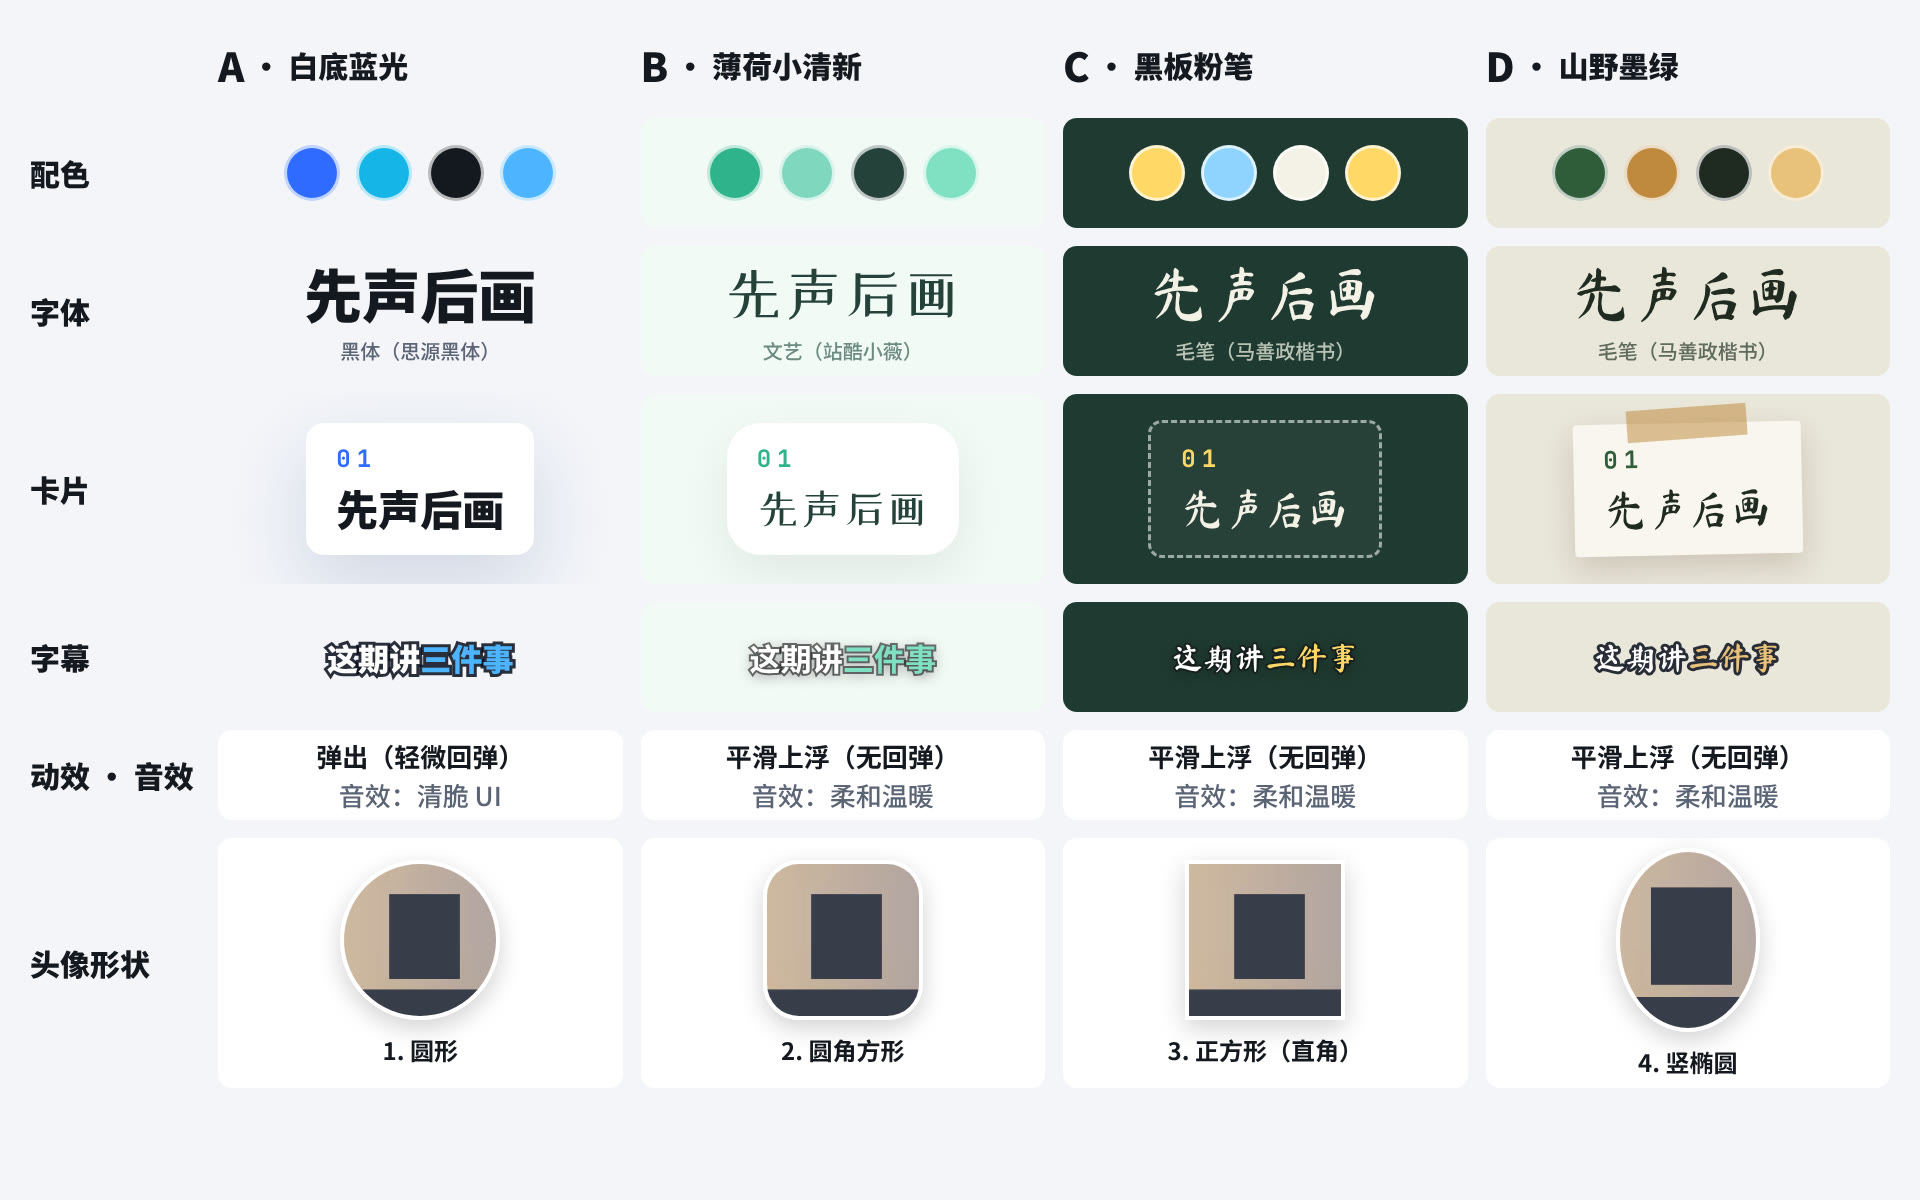
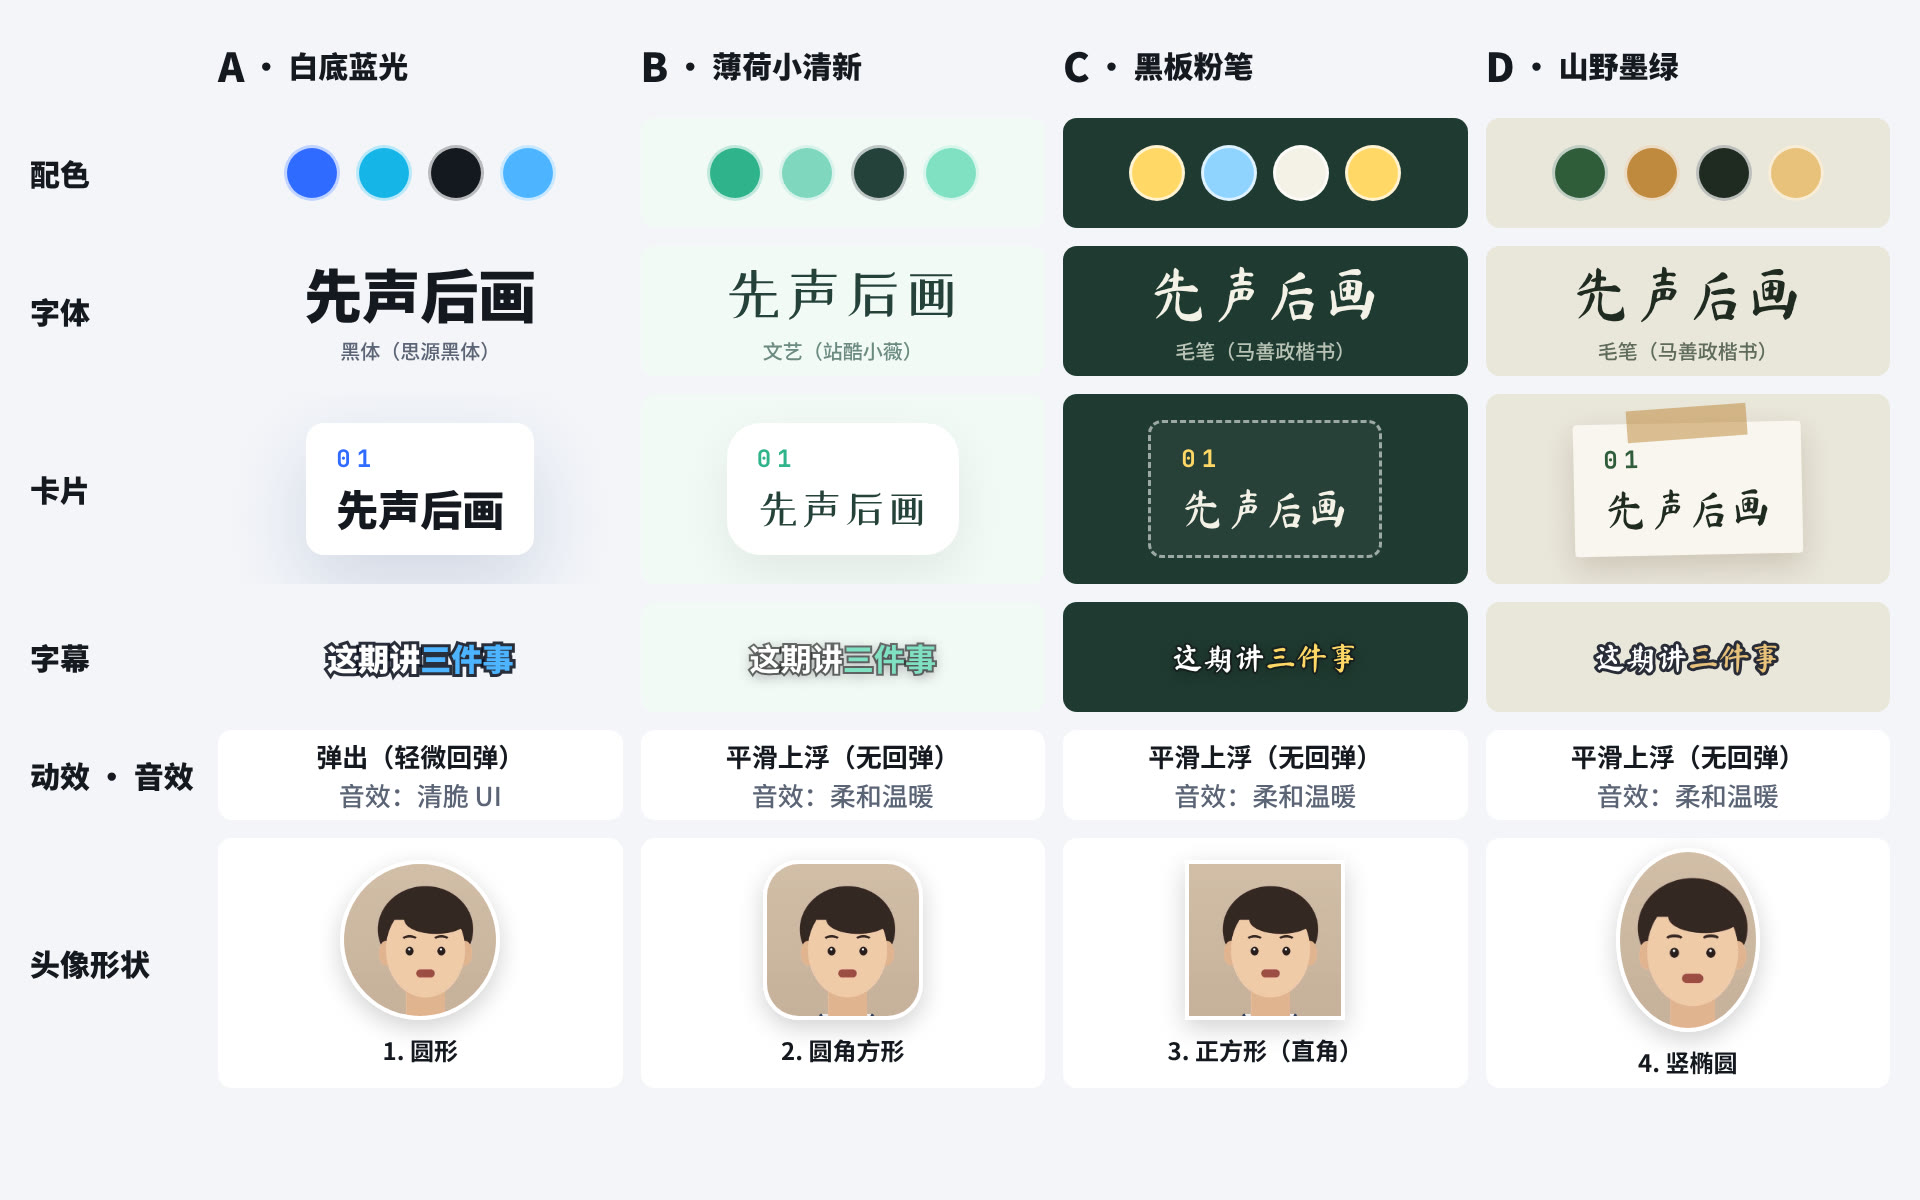
占位人物换成会说话的卡通人形，重出样板图

diff --git a/skills/talking-head-motion/template/tools/make-placeholder.py b/skills/talking-head-motion/template/tools/make-placeholder.py
@@ -1,0 +1,135 @@
+# 占位口播：还没有真人素材时，生成一段「人形卡通人物在说话」的视频，用来出风格样板、试排版。
+# 用法：python tools/make-placeholder.py public/talk.mp4 [--seconds 25.5] [--portrait]
+# 需要 Pillow 和 ffmpeg。人物会眨眼、张嘴、轻微点头，隔一会儿抬手做个手势。
+import argparse
+import math
+import subprocess
+
+from PIL import Image, ImageDraw, ImageFilter
+
+ap = argparse.ArgumentParser()
+ap.add_argument('out')
+ap.add_argument('--seconds', type=float, default=25.5)
+ap.add_argument('--portrait', action='store_true', help='竖着拍的口播（1080×1920）')
+a = ap.parse_args()
+
+W, H = (1080, 1920) if a.portrait else (1920, 1080)
+FPS = 30
+N = round(a.seconds * FPS)
+
+SKIN, SKIN_D = (238, 203, 172), (222, 180, 148)
+HAIR = (52, 40, 36)
+SHIRT, SHIRT_D = (58, 78, 110), (44, 60, 88)
+INNER = (236, 238, 242)
+INK = (40, 32, 30)
+MOUTH = (150, 70, 70)
+
+
+def room():
+    """暖色房间：墙面渐变 + 虚化的书架、台灯和绿植"""
+    bg = Image.new('RGB', (W, H))
+    d = ImageDraw.Draw(bg)
+    for y in range(H):
+        k = y / H
+        d.line([(0, y), (W, y)], fill=(int(214 - 30 * k), int(196 - 32 * k), int(176 - 34 * k)))
+    s = W / 1920 if not a.portrait else 1.0
+    # 书架
+    x0 = int(110 * s)
+    d.rectangle([x0, int(H * 0.18), x0 + int(380 * s), int(H * 0.86)], fill=(150, 116, 88))
+    for i in range(4):
+        y = int(H * (0.25 + 0.15 * i))
+        d.rectangle([x0 + 16, y, x0 + int(380 * s) - 16, y + 12], fill=(118, 88, 64))
+        for j in range(7):
+            bx = x0 + 30 + j * int(46 * s)
+            d.rectangle([bx, y - int(90 * s) + (j % 3) * 14, bx + int(34 * s), y], fill=[(92, 120, 150), (190, 120, 90), (220, 200, 160), (110, 140, 110)][(i + j) % 4])
+    # 台灯光
+    lx, ly = W - int(260 * s), int(H * 0.32)
+    d.ellipse([lx - 260, ly - 260, lx + 260, ly + 260], fill=(250, 226, 180))
+    d.rectangle([lx - 8, ly, lx + 8, int(H * 0.8)], fill=(90, 80, 70))
+    # 绿植
+    px, py = W - int(150 * s), int(H * 0.72)
+    for k in range(9):
+        ang = -2.6 + k * 0.33
+        d.ellipse([px + math.cos(ang) * 120 - 50, py + math.sin(ang) * 140 - 28, px + math.cos(ang) * 120 + 50, py + math.sin(ang) * 140 + 28], fill=(84, 128, 92))
+    d.rectangle([px - 70, py, px + 70, py + int(H * 0.18)], fill=(170, 120, 96))
+    return bg.filter(ImageFilter.GaussianBlur(22))
+
+
+SS = 2  # 超采样，边缘更平滑
+# 人物放在画面中间，脸大约在高度 36% 的位置
+scale = 1.0 if not a.portrait else 1.4
+BOX_W = 900  # 人物画布（1 倍尺寸）
+oy = 0 if not a.portrait else int(H * 0.36 - 400 * scale)
+BOX_H = 1080 if not a.portrait else math.ceil((H - oy) / scale) + 4
+ox = int(W / 2 - BOX_W * scale / 2)
+
+
+def person(t):
+    """画一帧人物（RGBA，BOX_W×BOX_H），中心线在 BOX_W/2"""
+    im = Image.new('RGBA', (BOX_W * SS, BOX_H * SS), (0, 0, 0, 0))
+    d = ImageDraw.Draw(im)
+    S = lambda *v: [x * SS for x in v]
+    cx = BOX_W / 2
+    bob = 5 * math.sin(t * 2.2) + 2 * math.sin(t * 5.1)
+    sway = 6 * math.sin(t * 0.9)
+    hx, hy = cx + sway, 400 + bob  # 脸中心
+
+    # 身体：圆肩 + 上衣
+    d.rounded_rectangle(S(cx - 290, 600, cx + 290, BOX_H + 200), radius=150 * SS, fill=SHIRT)
+    d.polygon(S(cx - 75, 590, cx + 75, 590, cx, 720), fill=INNER)  # 领口
+    d.line(S(cx - 75, 590, cx, 720, cx + 75, 590), fill=SHIRT_D, width=8 * SS)
+    d.line(S(cx - 200, 760, cx - 210, BOX_H), fill=SHIRT_D, width=6 * SS)  # 手臂分界
+    d.line(S(cx + 200, 760, cx + 210, BOX_H), fill=SHIRT_D, width=6 * SS)
+    # 脖子
+    d.rounded_rectangle(S(hx - 55, hy + 90, hx + 55, 620), radius=30 * SS, fill=SKIN_D)
+    # 头发（后）
+    d.ellipse(S(hx - 135, hy - 175, hx + 135, hy + 70), fill=HAIR)
+    # 耳朵、脸
+    d.ellipse(S(hx - 132, hy - 20, hx - 92, hy + 50), fill=SKIN_D)
+    d.ellipse(S(hx + 92, hy - 20, hx + 132, hy + 50), fill=SKIN_D)
+    d.ellipse(S(hx - 112, hy - 130, hx + 112, hy + 140), fill=SKIN)
+    # 刘海
+    d.chord(S(hx - 122, hy - 170, hx + 122, hy + 10), 180, 360, fill=HAIR)
+    d.ellipse(S(hx - 60, hy - 120, hx + 120, hy - 40), fill=HAIR)
+    # 眉毛、眼睛（每 3.7 秒眨一次）
+    d.arc(S(hx - 66, hy - 36, hx - 24, hy - 16), 200, 340, fill=HAIR, width=7 * SS)
+    d.arc(S(hx + 24, hy - 36, hx + 66, hy - 16), 200, 340, fill=HAIR, width=7 * SS)
+    blink = (t % 3.7) < 0.12
+    for ex in (hx - 45, hx + 45):
+        if blink:
+            d.line(S(ex - 13, hy + 10, ex + 13, hy + 10), fill=INK, width=5 * SS)
+        else:
+            d.ellipse(S(ex - 11, hy - 3, ex + 11, hy + 21), fill=INK)
+            d.ellipse(S(ex - 4, hy + 1, ex + 2, hy + 7), fill=(255, 255, 255))
+    # 嘴：说话时开合
+    talk = max(0.0, math.sin(t * 11.0)) * (0.6 + 0.4 * math.sin(t * 2.3)) * (0 if (t % 6) > 5.3 else 1)
+    mh = 4 + 22 * talk
+    d.rounded_rectangle(S(hx - 26, hy + 72 - mh / 2, hx + 26, hy + 72 + mh / 2), radius=int(min(mh, 26) / 2 * SS), fill=MOUTH)
+    # 手势：每 8 秒抬一次手，停 2.5 秒
+    g = t % 8.0
+    up = 0.0
+    if 2.0 < g < 4.5:
+        up = min(1.0, (g - 2.0) / 0.35, (4.5 - g) / 0.35)
+    if up > 0:
+        handx, handy = cx + 130, 1060 - 260 * up
+        d.line(S(cx + 205, 800, cx + 215, 980, handx, handy + 50), fill=SHIRT_D, width=74 * SS, joint='curve')
+        d.ellipse(S(handx - 48, handy - 40, handx + 48, handy + 60), fill=SKIN)
+        d.rounded_rectangle(S(handx - 40, handy - 95, handx - 18, handy - 10), radius=11 * SS, fill=SKIN)  # 竖起的食指
+    return im.resize((BOX_W, BOX_H), Image.LANCZOS)
+
+
+bg = room()
+
+ff = subprocess.Popen(['ffmpeg', '-loglevel', 'error', '-y', '-f', 'rawvideo', '-pix_fmt', 'rgb24', '-s', f'{W}x{H}', '-r', str(FPS), '-i', '-',
+                       '-f', 'lavfi', '-i', 'anullsrc=r=44100:cl=stereo', '-t', str(a.seconds),
+                       '-c:v', 'libx264', '-pix_fmt', 'yuv420p', '-crf', '20', '-c:a', 'aac', '-shortest', a.out], stdin=subprocess.PIPE)
+for i in range(N):
+    fr = bg.copy()
+    p = person(i / FPS)
+    if scale != 1.0:
+        p = p.resize((int(BOX_W * scale), int(BOX_H * scale)), Image.LANCZOS)
+    fr.paste(p, (ox, oy), p)
+    ff.stdin.write(fr.tobytes())
+ff.stdin.close()
+ff.wait()
+print(f'完成：{a.out}（{W}×{H}，{a.seconds} 秒）')

diff --git a/README.md b/README.md
@@ -5,7 +5,7 @@
 
 ![风格样板](docs/styles.jpg)
 
-> 上图是同一段口播套用不同风格的样板（人像是占位剪影）。下图是「零件对照表」：几套风格拆开并排，配色、字体、卡片、字幕、动效音效、头像形状都可以单独挑。
+> 上图是同一段口播套用不同风格的样板（人物是占位的卡通形象，用 `tools/make-placeholder.py` 生成，换成你自己的口播即可）。下图是「零件对照表」：几套风格拆开并排，配色、字体、卡片、字幕、动效音效、头像形状都可以单独挑。
 
 ![零件对照表](docs/parts.jpg)
 
@@ -75,7 +75,8 @@ cp -r talking-head-motion/skills/talking-head-motion ~/.claude/skills/
 cd skills/talking-head-motion/template
 npm install
 npm run sfx          # 下载真实录音音效到 public/sfx/
-# 把你的口播放到 public/talk.mp4
+# 把你的口播放到 public/talk.mp4；还没拍的话，先生成一段卡通人物占位视频试效果：
+python3 tools/make-placeholder.py public/talk.mp4   # 加 --portrait 生成竖着拍的版本
 node tools/make-samples.mjs --category life   # 出这一类的 3 套风格样板（静帧 + 小动图）
 node tools/make-samples.mjs --styles tech-1 --portrait --layouts split,float,pip   # 竖屏：比较三种版式
 # 在 src/config.js 里选定风格，改 src/shots.js 和 src/subs.js
